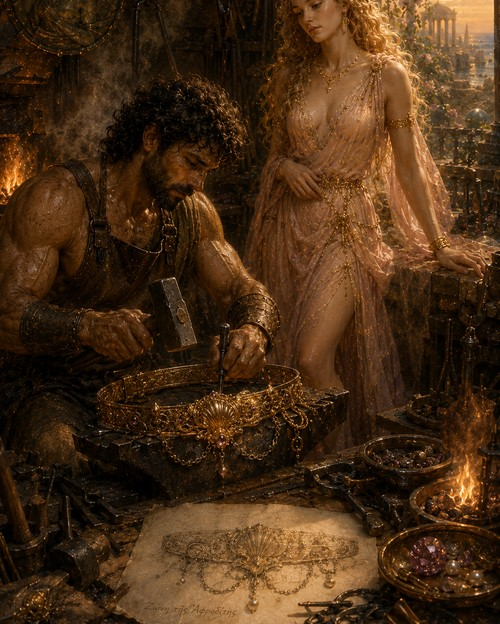
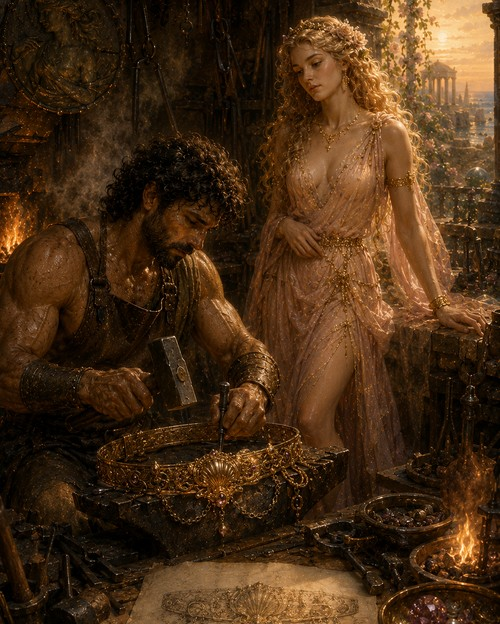
Corrige le recadrage du visage d'Aphrodite chez Héphaïstos
Répond à : "Dans la fiche d'hephaistos, le visage d'Aphrodite est
coupée." Bug confirmé : le portrait en ligne de la ceinture magique
rognait la source trop haut, tranchant le sommet du crâne
d'Aphrodite. Recadré à nouveau avec une marge plus généreuse en
haut, en compensant en bas sans perdre le parchemin annoté. Simple
remplacement du fichier image, aucun changement de code.

Vérifié par rendu réel puis par la régression complète (114
fichiers, inchangée) : tout au vert, mêmes 3 échecs déjà connus et
sans rapport.

Claude-Session: https://claude.ai/code/session_01U3aLcH1JucbLstxQ1Hhqve

diff --git a/service-worker.js b/service-worker.js
@@ -1,4 +1,4 @@
-const CACHE="delphes-v167";
+const CACHE="delphes-v168";
 const ASSETS=["./","./index.html","./styles.css","./app.js","./manifest.json","./icon.svg","./icon-192.png","./icon-512.png","./icon-180.png","./politique-confidentialite.html","./assets/logo-mark.png"];
 
 self.addEventListener("install",event=>{
